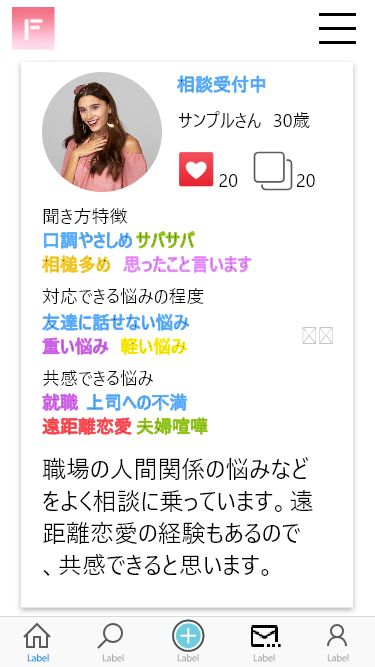
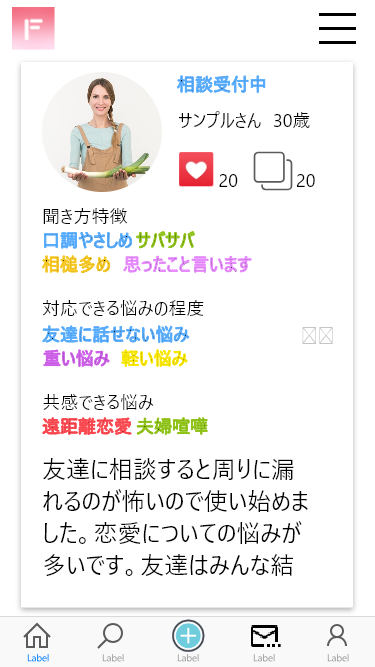
相談者同士に変更

Changed region(s): [[0.1173, 0.6897, 0.8507, 0.8696], [0.1173, 0.4198, 0.5573, 0.6297], [0.088, 0.09, 0.44, 0.2999]]

diff --git a/app/assets/stylesheets/main.css b/app/assets/stylesheets/main.css
@@ -449,7 +449,7 @@ ul li {
 -------------------------------------------------------------------------------*/
 
 	.overlay {
-	background-color: #FEEEED;
+	background-color: #fff;
 	height: 100%;
 	left: 0;
 	position: absolute;
